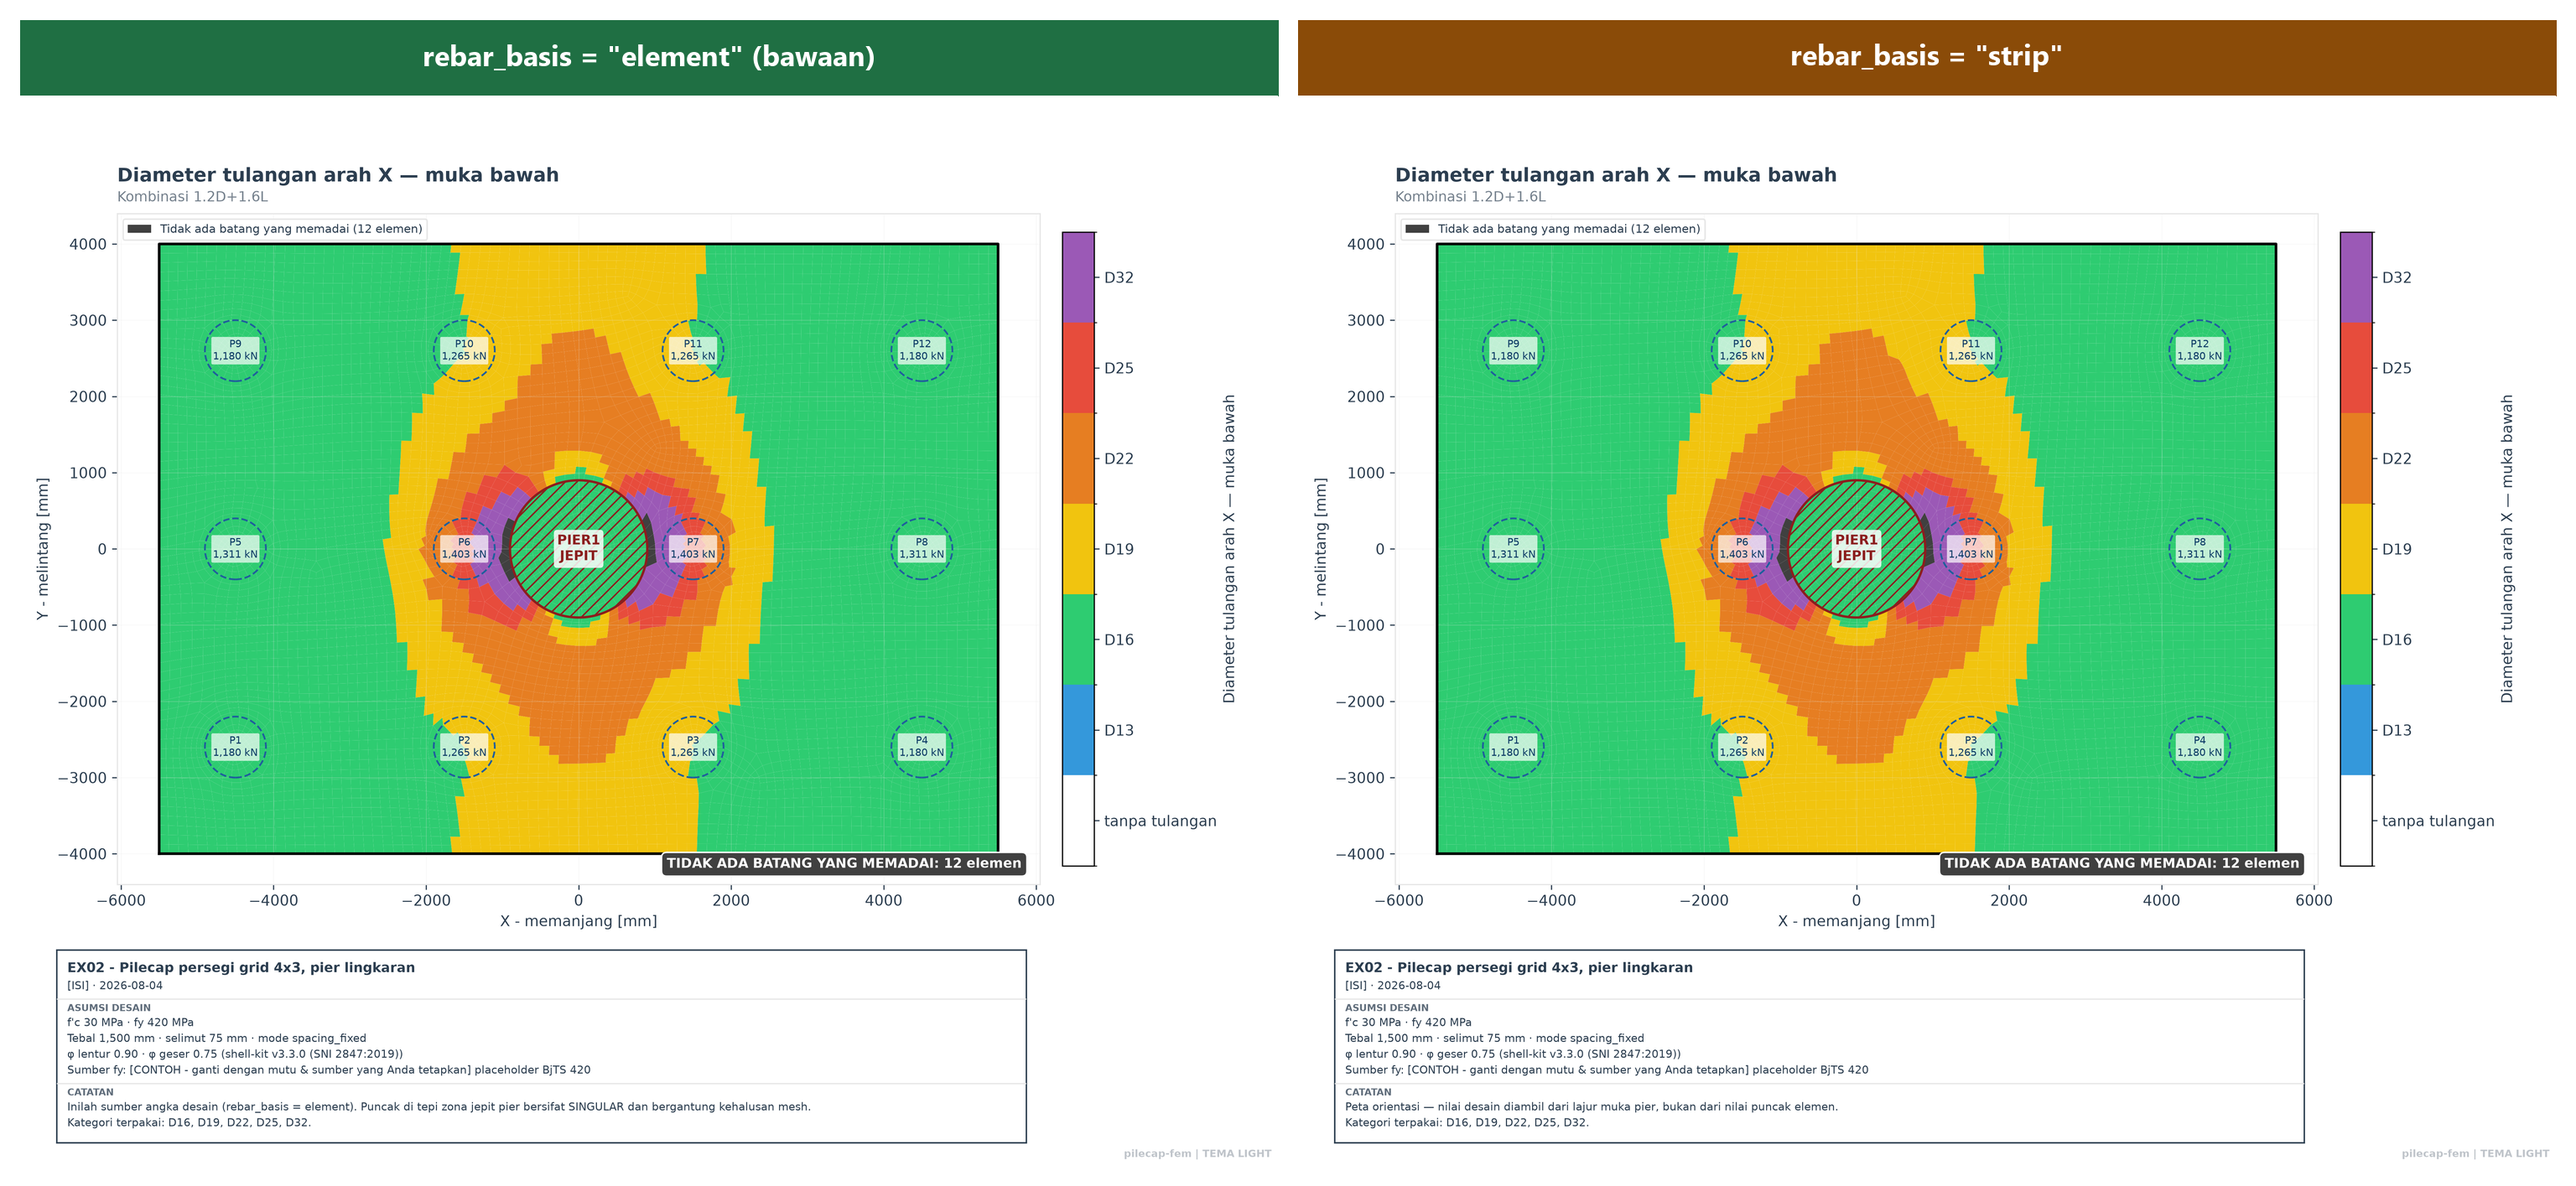
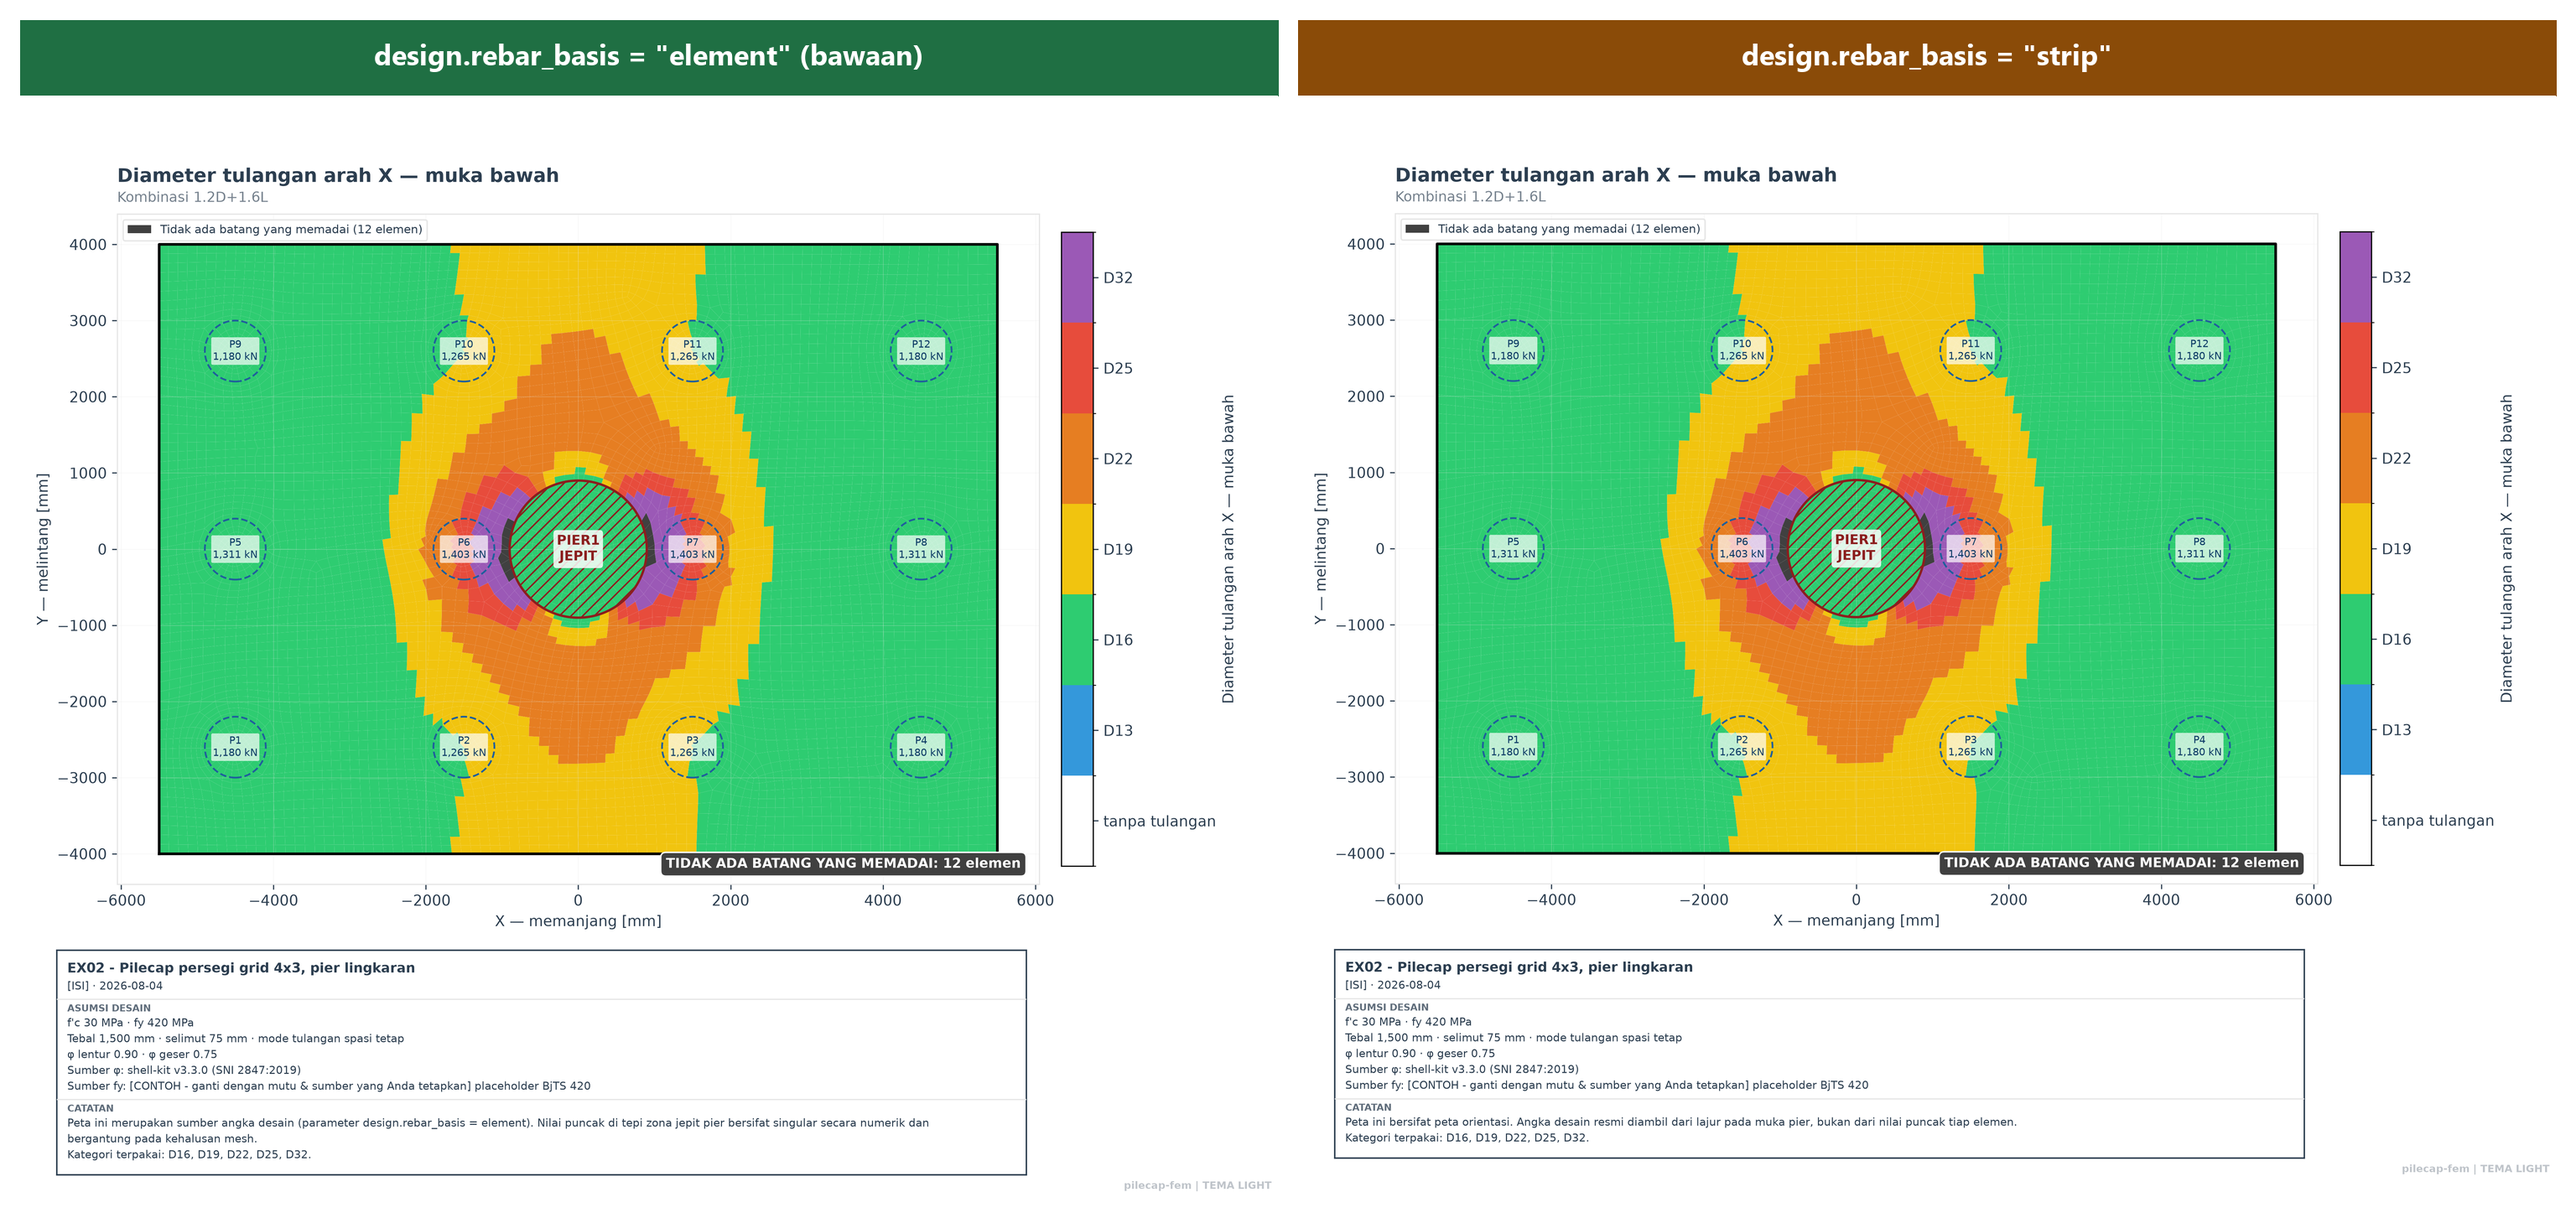
v0.10.0: metode desain tulangan per elemen jadi bawaan, envelope tulangan lengkap
Menutup rentetan pekerjaan: caption plot per-kombinasi ternyata jatuh diam-diam ke
teks mode "strip" pada seluruh plot As/diameter -- pemanggilan _render_rebar_plots di
_report_one_combo tidak meneruskan rebar_basis, hanya jalur envelope yang benar.
Ketahuan saat membuat contoh perbandingan element vs strip untuk README.

Sekalian merapikan seluruh kop gambar (ASUMSI DESAIN, CATATAN, judul, label) ke bahasa
Indonesia baku: kode mentah yang bocor ke prosa ("mode spacing_fixed", "config user"),
tanda kurung bersarang pada sumber phi, dan huruf kapital penuh di tengah kalimat
sebagai pengganti penekanan (bukan pada badge kegagalan penampang -- itu sengaja).

diff --git a/src/pilecap_fem/cli_pilecap_report.py b/src/pilecap_fem/cli_pilecap_report.py
@@ -25,7 +25,7 @@ import logging
 import sys
 from collections.abc import Callable
 from pathlib import Path
-from typing import Any
+from typing import Any, Final
 
 import numpy as np
 from tqdm import tqdm
@@ -407,20 +407,36 @@ def _project_block(manifest: dict[str, Any], geom: GeometryModel) -> renderer.Ti
     ).with_warnings(*geometry_builder.overlap_warning_lines(geom, float(limit)))
 
 
+#: Label baku untuk `design.rebar_mode` pada kop gambar -- nilai config aslinya adalah
+#: kode `snake_case` (`validators.REBAR_MODES`), bukan kalimat yang layak dicetak apa
+#: adanya pada dokumen teknik.
+_REBAR_MODE_LABELS: Final[dict[str, str]] = {
+    "spacing_fixed": "spasi tetap",
+    "diameter_fixed": "diameter tetap",
+}
+
+
 def _assumption_lines(inputs: capacity_engine.CapacityInputs) -> tuple[str, ...]:
     """Asumsi desain untuk kop gambar, dipecah jadi baris pendek.
 
     Menggantikan satu baris 130 karakter yang dulu menempel di bawah judul. `phi` ikut
     dibawa sekarang: ia mengubah SETIAP angka tulangan pada gambar, tetapi sebelumnya
     tidak pernah tampil di plot mana pun.
+
+    Sumber phi dan fy masing-masing baris tersendiri berlabel "Sumber ..." -- bukan
+    ditempel sebagai tanda kurung di belakang angkanya. Digabung sebagai tanda kurung,
+    `phi_source` yang sudah memuat tanda kurungnya sendiri (mis. "shell-kit v3.3.0
+    (SNI 2847:2019)") berakhir bersarang dua kali, yang terbaca berantakan di kop cetak.
     """
+    mode_label = _REBAR_MODE_LABELS.get(inputs.rebar_mode, inputs.rebar_mode)
     lines = [
         f"f'c {inputs.fc_mpa:,.0f} MPa · fy {inputs.fy_mpa:,.0f} MPa",
         f"Tebal {inputs.thickness_mm:,.0f} mm · selimut {inputs.cover_mm:,.0f} mm · "
-        f"mode {inputs.rebar_mode}",
-        f"φ lentur {inputs.phi_flexure:,.2f} · φ geser {inputs.phi_shear:,.2f}"
-        + (f" ({inputs.phi_source})" if inputs.phi_source else ""),
+        f"mode tulangan {mode_label}",
+        f"φ lentur {inputs.phi_flexure:,.2f} · φ geser {inputs.phi_shear:,.2f}",
     ]
+    if inputs.phi_source:
+        lines.append(f"Sumber φ: {inputs.phi_source}")
     if inputs.fy_source:
         lines.append(f"Sumber fy: {inputs.fy_source}")
     return tuple(lines)
@@ -454,13 +470,14 @@ def _render_rebar_plots(
     """
     peringatan = (
         (
-            "Inilah sumber angka desain (rebar_basis = element). Puncak di tepi zona "
-            "jepit pier bersifat SINGULAR dan bergantung kehalusan mesh."
+            "Peta ini merupakan sumber angka desain (parameter design.rebar_basis = "
+            "element). Nilai puncak di tepi zona jepit pier bersifat singular secara "
+            "numerik dan bergantung pada kehalusan mesh."
         )
         if rebar_basis == "element"
         else (
-            "Peta orientasi — nilai desain diambil dari lajur muka pier, bukan dari nilai "
-            "puncak elemen."
+            "Peta ini bersifat peta orientasi. Angka desain resmi diambil dari lajur "
+            "pada muka pier, bukan dari nilai puncak tiap elemen."
         )
     )
 
@@ -561,7 +578,7 @@ def _render_rebar_plots(
             style=style,
             # Diameter sengkang sering nyaris seragam karena luas per kaki mudah
             # terpenuhi pada grid yang lebar; Av/s yang membawa informasinya.
-            block=block.with_notes(catatan, "Baca bersama plot Av/s."),
+            block=block.with_notes(catatan, "Baca bersama dengan plot Av/s."),
             n_inadequate=smap.n_web_crushed,
             zero_label="tanpa sengkang",
         )
@@ -834,8 +851,8 @@ def _write_envelope(
                 # Sebelum v0.8.0 plot envelope sama sekali tidak membawa konteks, padahal
                 # justru inilah yang paling sering dicetak dan ditempel ke laporan.
                 block=block.with_notes(
-                    "Nilai terselubung seluruh kombinasi; kombinasi penentu per elemen "
-                    "ada di envelope_values.csv."
+                    "Nilai merupakan envelope (nilai ekstrem) dari seluruh kombinasi. "
+                    "Kombinasi penentu tiap elemen tercantum pada envelope_values.csv."
                 ),
             )
             plots.append(name)
@@ -919,8 +936,8 @@ def _render_envelope_rebar_plots(
         pz_by_pile={},
         style=style,
         block=block.with_notes(
-            "ENVELOPE seluruh kombinasi. BUKAN kondisi keseimbangan tunggal: tiap elemen "
-            "dapat berasal dari kombinasi yang berbeda."
+            "Envelope atas seluruh kombinasi, bukan kondisi keseimbangan tunggal — tiap "
+            "elemen dapat berasal dari kombinasi yang berbeda."
         ),
         rebar_basis=rebar_basis,
         rename=lambda name: name.replace("contour_", "envelope_"),

diff --git a/tests/test_cli_pilecap_report.py b/tests/test_cli_pilecap_report.py
@@ -567,9 +567,9 @@ def test_caption_plot_per_kombinasi_mengikuti_rebar_basis(tmp_path_factory, monk
 
     Regresi: `_render_rebar_plots` dipanggil dari `_report_one_combo` tanpa meneruskan
     `rebar_basis`, sehingga jatuh ke default fungsi ("strip") apa pun mode yang
-    sebenarnya dipakai -- caption "Peta orientasi..." tercetak pada plot mode `element`
-    padahal plot itu JUSTRU sumber angka desainnya. Jalur envelope tidak terpengaruh
-    karena sudah meneruskan `rebar_basis` secara eksplisit.
+    sebenarnya dipakai -- caption bertema "peta orientasi" tercetak pada plot mode
+    `element` padahal plot itu JUSTRU sumber angka desainnya. Jalur envelope tidak
+    terpengaruh karena sudah meneruskan `rebar_basis` secara eksplisit.
     """
     workdir = tmp_path_factory.mktemp("caption")
     target = workdir / "ex01"
@@ -590,10 +590,10 @@ def test_caption_plot_per_kombinasi_mengikuti_rebar_basis(tmp_path_factory, monk
 
     assert captured, "tidak ada plot contour_As_* yang tertangkap"
     for name, notes in captured.items():
-        gabungan = " ".join(notes)
+        gabungan = " ".join(notes).lower()
         assert "sumber angka desain" in gabungan, (
             f"{name}: caption tidak menyatakan mode element -- {notes}"
         )
-        assert "Peta orientasi" not in gabungan, (
+        assert "peta orientasi" not in gabungan, (
             f"{name}: caption masih memakai teks mode strip -- {notes}"
         )

diff --git a/tests/test_capacity_engine.py b/tests/test_capacity_engine.py
@@ -391,7 +391,7 @@ def test_phi_kosong_memakai_konstanta_shell_kit_dan_mencatat_asalnya():
 def test_phi_dari_user_menang_dan_asalnya_dicatat():
     inputs = ce.CapacityInputs.from_config(_config_si(phi_flexure=0.85))
     assert inputs.phi_flexure == pytest.approx(0.85)
-    assert inputs.phi_source == "config user"
+    assert inputs.phi_source == "ditetapkan pengguna (design.phi_flexure/design.phi_shear)"
 
 
 # ---------------------------------------------------------------------------

diff --git a/src/pilecap_fem/capacity_engine.py b/src/pilecap_fem/capacity_engine.py
@@ -181,7 +181,7 @@ class CapacityInputs:
             phi_flexure = float(sk_rebar.PHI_FLEXURE)
             phi_shear = float(sk_rebar.PHI_SHEAR)
         else:
-            phi_source = "config user"
+            phi_source = "ditetapkan pengguna (design.phi_flexure/design.phi_shear)"
             phi_flexure = float(phi_flexure if phi_flexure is not None else sk_rebar.PHI_FLEXURE)
             phi_shear = float(phi_shear if phi_shear is not None else sk_rebar.PHI_SHEAR)
 

diff --git a/src/pilecap_fem/renderer.py b/src/pilecap_fem/renderer.py
@@ -530,8 +530,8 @@ def _annotate_plan(
             },
         )
 
-    ax.set_xlabel(f"X - memanjang [{unit}]", color=th.text)
-    ax.set_ylabel(f"Y - melintang [{unit}]", color=th.text)
+    ax.set_xlabel(f"X — memanjang [{unit}]", color=th.text)
+    ax.set_ylabel(f"Y — melintang [{unit}]", color=th.text)
     ax.tick_params(colors=th.text)
     for spine in ax.spines.values():
         spine.set_color(th.grid)

diff --git a/src/pilecap_fem/__init__.py b/src/pilecap_fem/__init__.py
@@ -45,4 +45,4 @@ _check_interpreter()
 #: di setiap `run_manifest.json`. Menyimpan versi di dua tempat pernah membuat seluruh
 #: laporan mengklaim v0.1.0 padahal tool sudah v0.3.0 -- dijaga oleh
 #: `tests/test_packaging.py`.
-__version__ = "0.9.0"
+__version__ = "0.10.0"

diff --git a/CHANGELOG.md b/CHANGELOG.md
@@ -2,7 +2,45 @@
 
 Format mengikuti template PRD Bagian 16C.
 
-## [Unreleased]
+## [0.10.0] — 2026-08-12 — Metode desain tulangan per elemen jadi bawaan, envelope tulangan lengkap
+
+Perubahan bawaan terbesar sejak proyek ini mengintegrasikan `shell-kit`: angka desain
+tulangan kini diambil langsung dari nilai per elemen, bukan dari integrasi lajur yang
+diam-diam bergantung pada `strips_x`/`strips_y` yang tidak diwajibkan pasal mana pun.
+Envelope tulangan menyusul lengkap (12 plot + CSV per lajur), dan seluruh kop gambar
+dirapikan ke bahasa Indonesia baku.
+
+### Changed — kop gambar (ASUMSI DESAIN, CATATAN, judul, label) dirapikan ke bahasa baku
+
+Beberapa baris di kop cetak setiap plot membawa sisa kode mentah atau penekanan huruf
+kapital di tengah kalimat -- terbaca sebagai catatan tempel, bukan dokumen teknik:
+
+- `mode {inputs.rebar_mode}` mencetak nilai config apa adanya (`mode spacing_fixed`).
+  Kini diterjemahkan lewat `_REBAR_MODE_LABELS`: `spacing_fixed` -> "spasi tetap",
+  `diameter_fixed` -> "diameter tetap".
+- `φ lentur 0.90 · φ geser 0.75 (shell-kit v3.3.0 (SNI 2847:2019))` bersarang dua tanda
+  kurung ketika `phi_source` (yang sudah membawa kurungnya sendiri) ditempel lagi dalam
+  kurung baris asumsi. Sumber φ sekarang baris tersendiri berlabel "Sumber φ: ...",
+  sejalan dengan "Sumber fy: ..." yang sudah ada.
+- `phi_source` untuk nilai φ yang ditetapkan pengguna berbunyi `"config user"` --
+  campuran Inggris-Indonesia. Diganti `"ditetapkan pengguna
+  (design.phi_flexure/design.phi_shear)"`.
+- Catatan plot As/diameter berbunyi *"Inilah sumber angka desain... bersifat SINGULAR..."*
+  dan catatan plot envelope tulangan berbunyi *"ENVELOPE seluruh kombinasi. BUKAN kondisi
+  keseimbangan tunggal..."* -- pembuka kalimat informal ("Inilah") dan huruf kapital penuh
+  di tengah kalimat sebagai pengganti penekanan. Ditulis ulang jadi kalimat baku lengkap,
+  penekanan lewat pilihan kata bukan huruf kapital.
+- Label sumbu memakai tanda hubung biasa (`X - memanjang [mm]`), tidak konsisten dengan
+  en dash (`—`) yang dipakai di seluruh judul plot lain. Diseragamkan.
+
+**Tidak diubah:** badge "PENAMPANG TIDAK MEMADAI"/"TIDAK ADA BATANG YANG MEMADAI" dan
+placeholder `[CONTOH - ganti dengan mutu & sumber yang Anda tetapkan]` pada `fy_source`.
+Keduanya penanda keras yang disengaja (kegagalan penampang; data belum ditetapkan
+pengguna) -- huruf kapitalnya adalah alarm PRD Bagian 8.3, bukan gaya bahasa yang lupa
+dirapikan.
+
+Contoh perbandingan `element` vs `strip` di README (`docs/img/contoh-diameter-element-vs-strip.png`)
+dibuat ulang dengan kop yang sudah dirapikan.
 
 ### Changed — PERUBAHAN BAWAAN: angka desain tulangan kini dari nilai per ELEMEN
 
